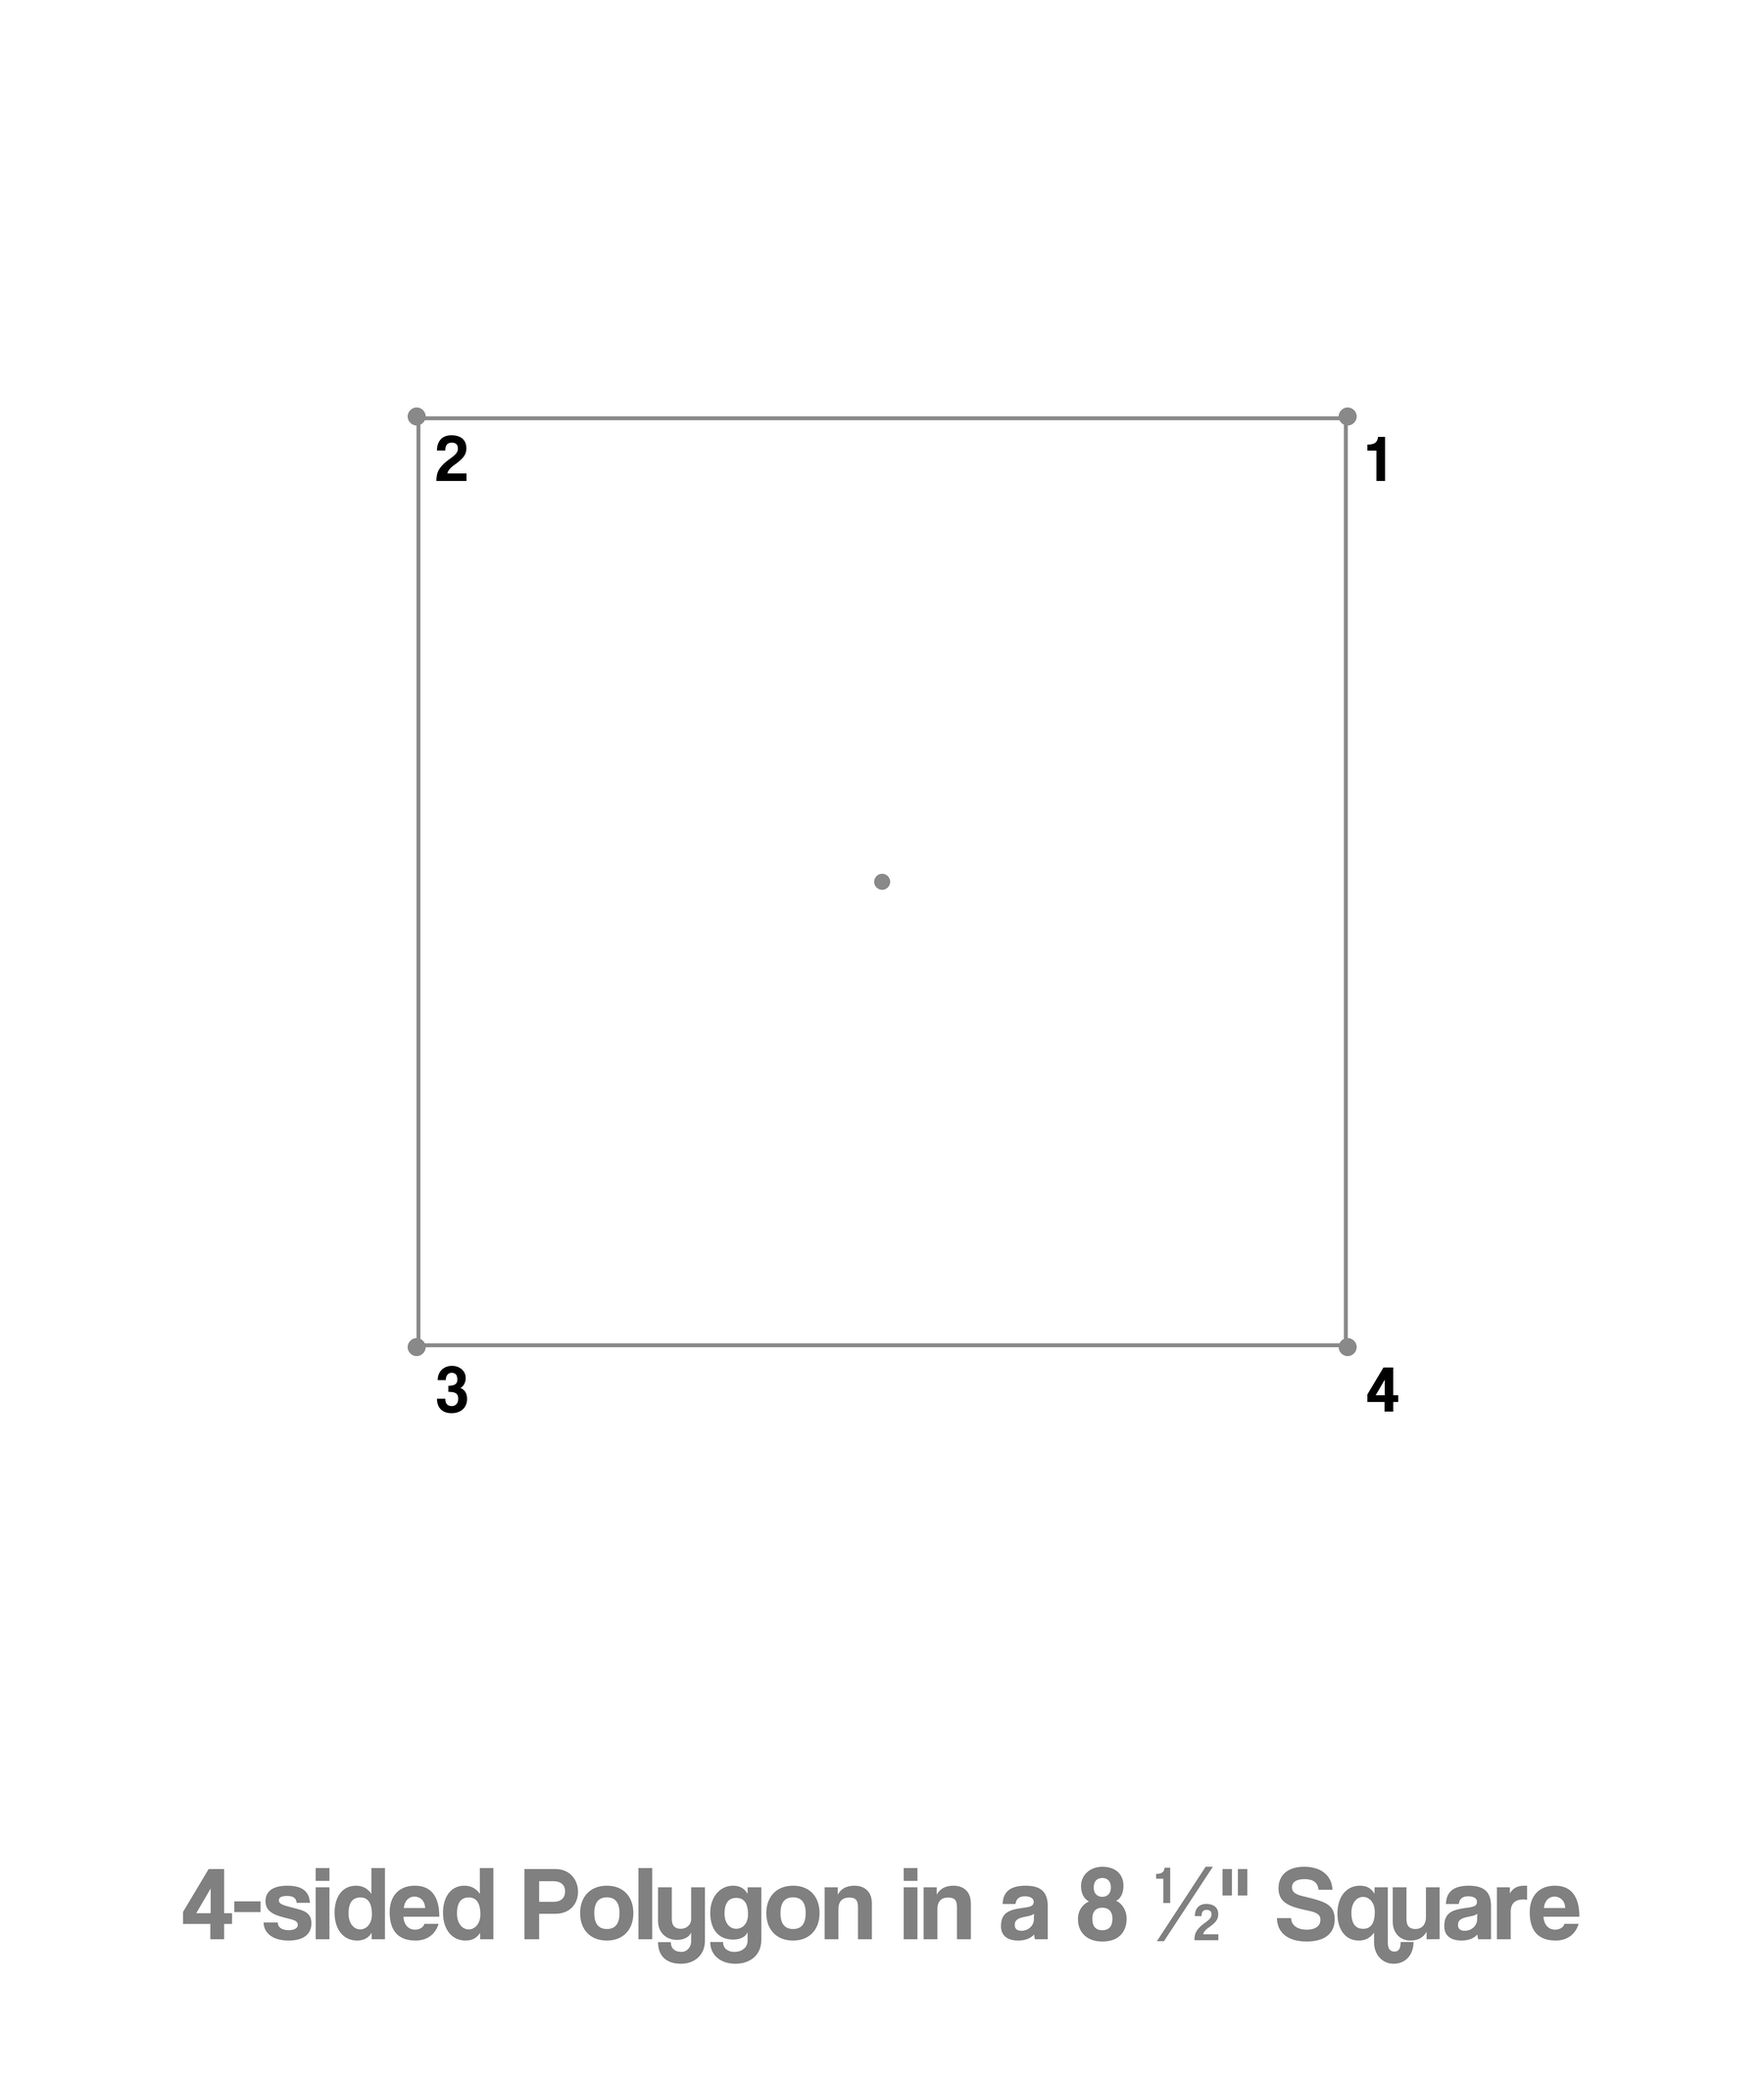
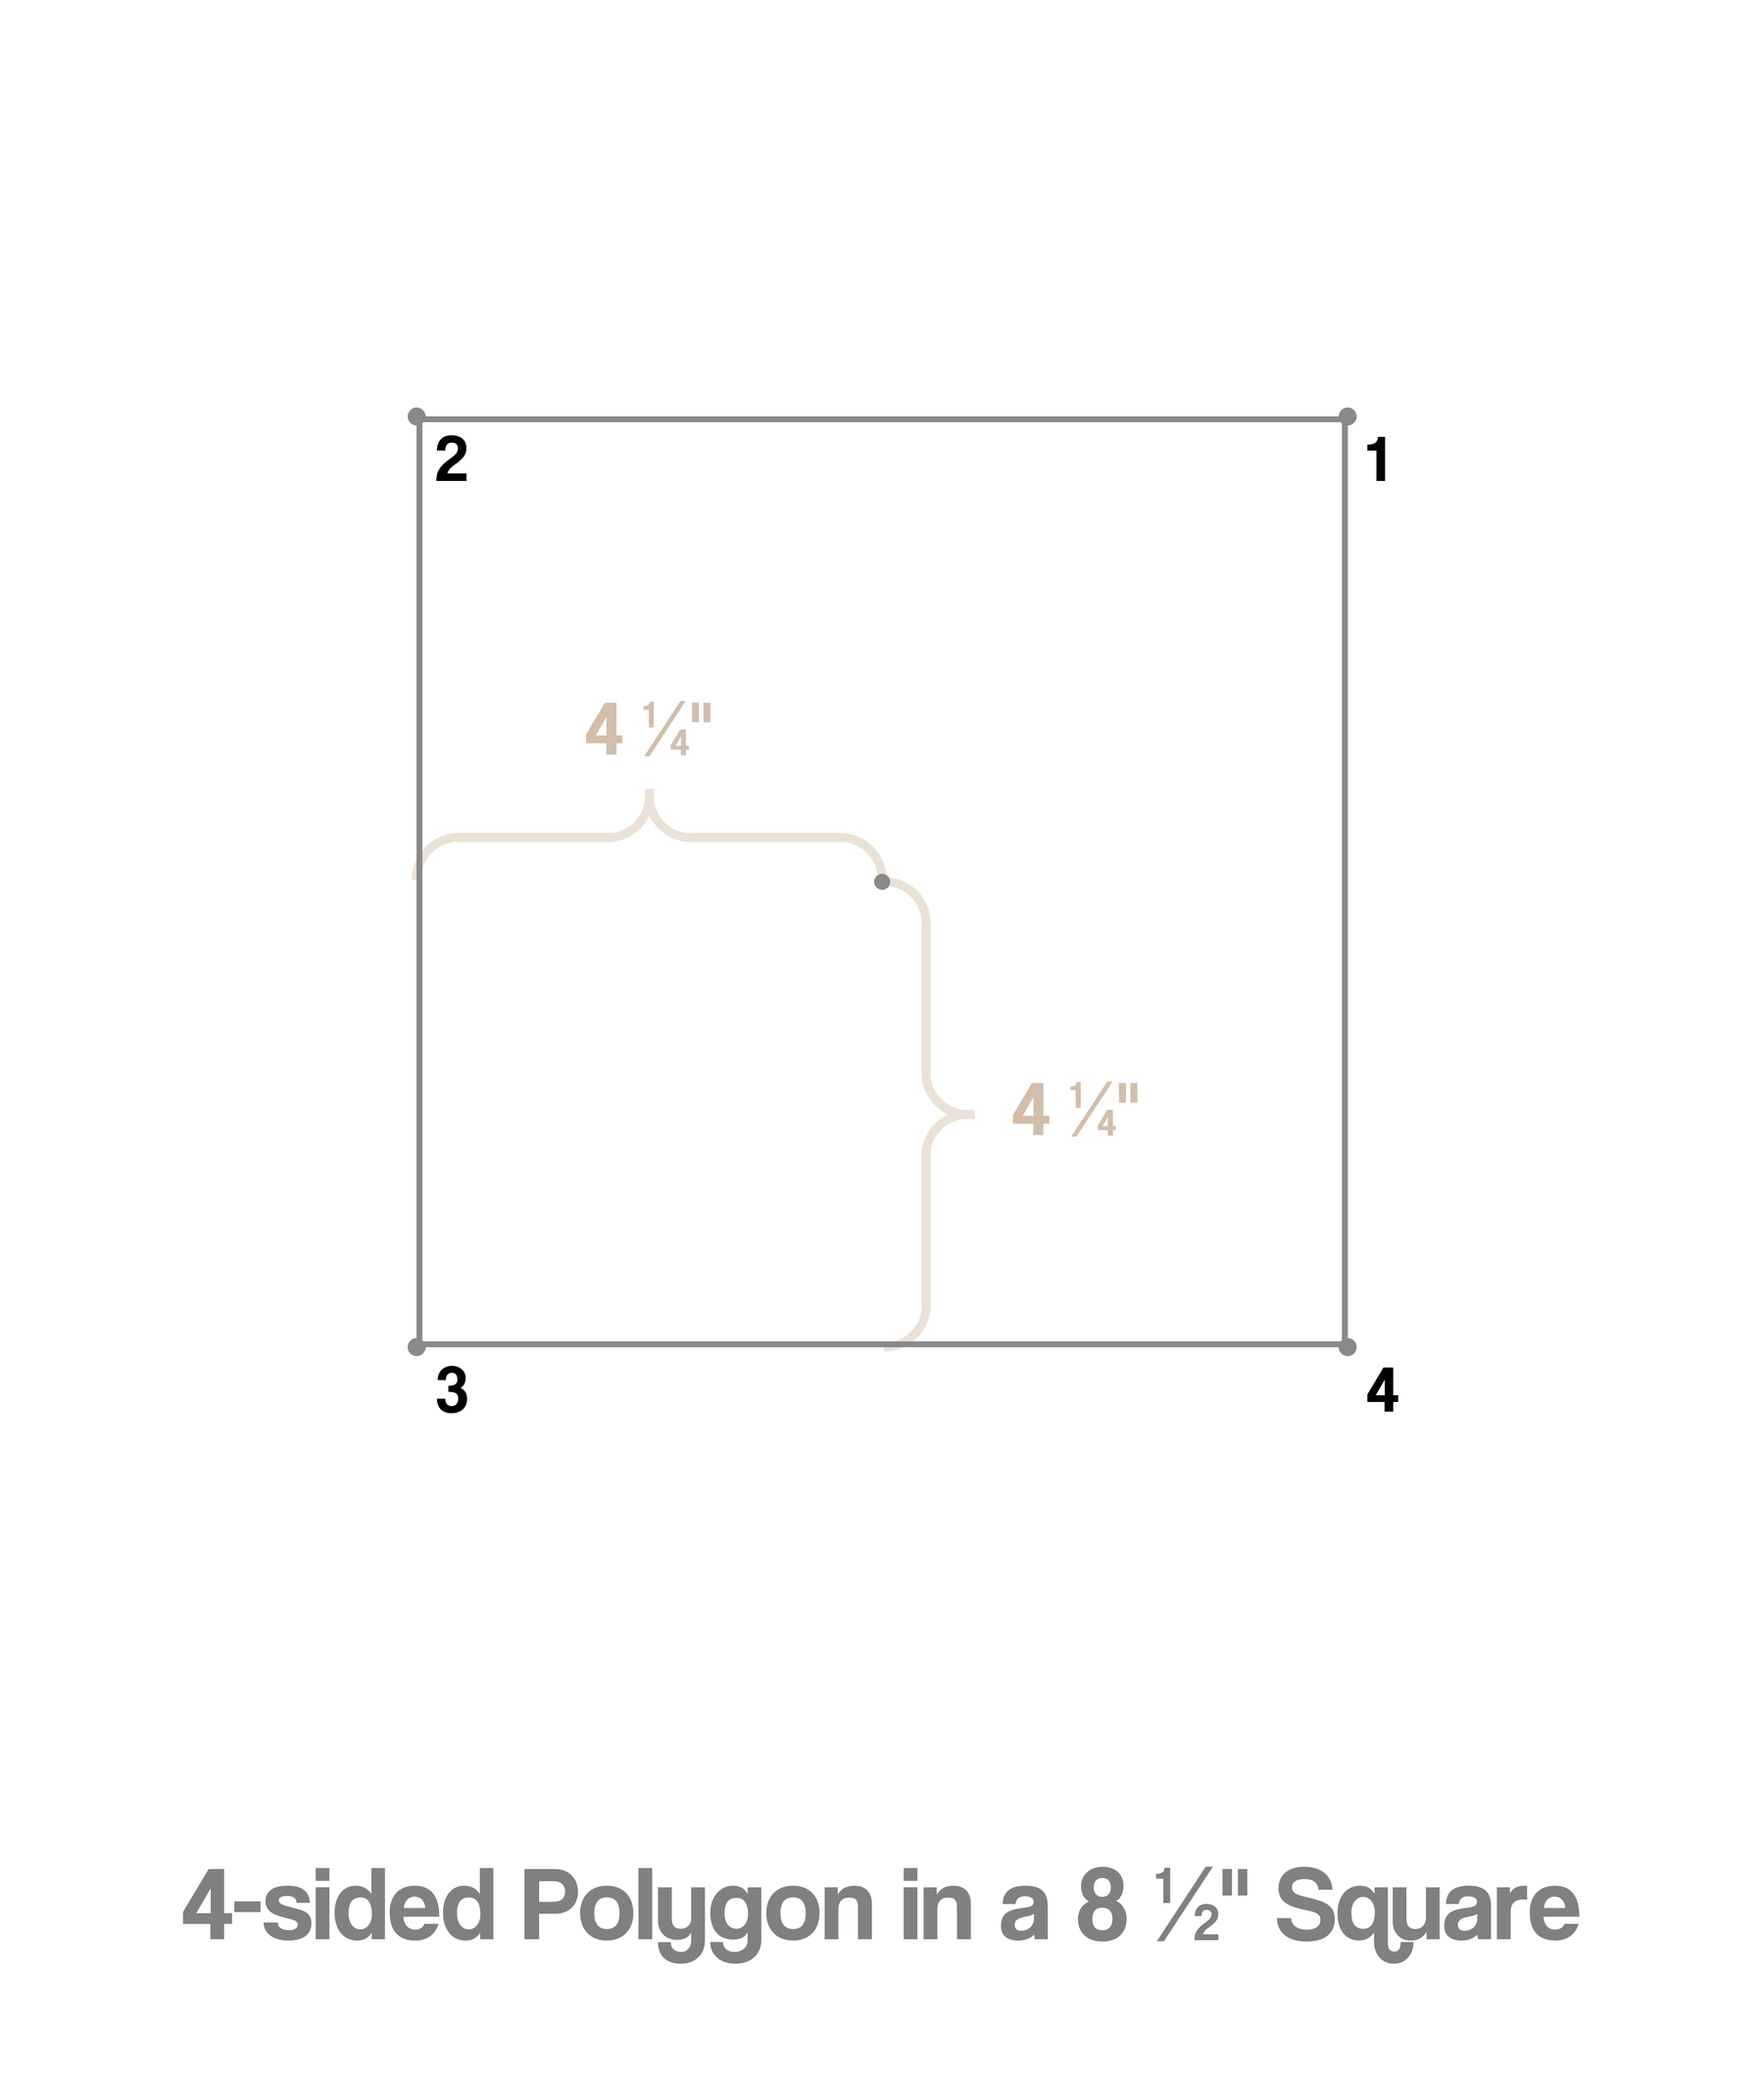
Add files via upload

diff --git a/maxpolygon/diagram/__init__.py b/maxpolygon/diagram/__init__.py
@@ -155,9 +155,57 @@ def draw_diagram(
             bracket_thickness_px=BRACKET_THICKNESS_PX,
         )
 
-    # 5) Collapse the labels layer down on top of the image.
-    img = Image.alpha_composite(img, labels_img)
-    img = img.convert("RGB")
+    # 5) Label the measurements to the center point.
+    if LABEL_MEASUREMENTS_TO_CENTER:
+        # 5a) Create a new image layer so the brackets for the center
+        #     are rendered under everything else.
+        under_layer = Image.new("RGBA", img.size, (0, 0, 0, 0))
+        under_draw = ImageDraw.Draw(under_layer)
+
+        # 5b) Label the horizontal length that shows where the center is.
+        start_x = to_px(0, paper_size=paper_size)
+        end_x = to_px(center[0], paper_size=paper_size)
+        const_y = to_px(center[1], paper_size=paper_size, invert=invert_y)
+        label_edge(
+            label_str=to_label_string(center[0]),
+            draw=under_draw,
+            label_draw=label_draw,
+            start_xy=(start_x, const_y),
+            end_xy=(end_x, const_y),
+            px_open=PX_OPEN,
+            stem_dir="up",
+            bracket_thickness_px=BRACKET_THICKNESS_PX,
+            fill=CENTER_BRACKET_COLOR,
+            label_fill=CENTER_BRACKET_LABEL_COLOR,
+        )
+
+        # 5c) Label the vertical length that shows where the center is.
+        start_y = to_px(0, paper_size=paper_size, invert=invert_y)
+        end_y = to_px(center[1], paper_size=paper_size, invert=invert_y)
+        min_y = min(start_y, end_y)
+        max_y = max(start_y, end_y)
+        const_x = to_px(center[0], paper_size=paper_size)
+        label_edge(
+            label_str=to_label_string(center[1]),
+            draw=under_draw,
+            label_draw=label_draw,
+            start_xy=(const_x, min_y),
+            end_xy=(const_x, max_y),
+            px_open=PX_OPEN,
+            stem_dir="right",
+            bracket_thickness_px=BRACKET_THICKNESS_PX,
+            fill=CENTER_BRACKET_COLOR,
+            label_fill=CENTER_BRACKET_LABEL_COLOR,
+        )
+
+    # 6) Collapse the labels layer down on top of the image.
+    result = Image.new("RGBA", img.size, (255, 255, 255, 255))
+    if LABEL_MEASUREMENTS_TO_CENTER:
+        result = Image.alpha_composite(result, under_layer)
+    result = Image.alpha_composite(result, img)
+    result = Image.alpha_composite(result, labels_img)
+    # img = Image.alpha_composite(img, labels_img)
+    img = result.convert("RGB")
 
     # 6) Size the image down and return it if the title is disabled.
     if TITLE_LOCATION is None:

diff --git a/maxpolygon/diagram/_basic_diagram.py b/maxpolygon/diagram/_basic_diagram.py
@@ -52,7 +52,7 @@ def create_basic_diagram(
     ]
 
     # 3) Create the image and drawing object.
-    img = Image.new("RGBA", (IMG_SIZE, IMG_SIZE), (255, 255, 255, 255))
+    img = Image.new("RGBA", (IMG_SIZE, IMG_SIZE), (0, 0, 0, 0))
     labels_img = Image.new("RGBA", (IMG_SIZE, IMG_SIZE), (0, 0, 0, 0))
     draw = ImageDraw.Draw(img)
     labels_draw = ImageDraw.Draw(labels_img)
@@ -66,12 +66,12 @@ def create_basic_diagram(
             IMG_SIZE - SQUARE_PADDING,
         ],
         outline=SQUARE_BORDER_COLOR,
-        width=4 * ANTIALIAS,
+        width=6 * ANTIALIAS,
     )
 
     # 5) Draw the polygon and vertices.
     # 5a) Draw the polygon lines.
-    draw.polygon(px_coords, outline=LINE_COLOR, width=4 * ANTIALIAS)
+    draw.polygon(px_coords, outline=LINE_COLOR, width=6 * ANTIALIAS)
     for i, (x, y) in enumerate(coords):
         p_x, p_y = px_coords[i]
 

diff --git a/maxpolygon/diagram/_label_edge.py b/maxpolygon/diagram/_label_edge.py
@@ -29,8 +29,12 @@ def label_edge(
     stem_dir: str,
     bracket_thickness_px,
     fill="gray",
+    label_fill=None,
 ):
     global _measure_font
+
+    if label_fill is None:
+        label_fill = fill
 
     def inc_angle(angle, add, exclude_360: bool):
         return (angle + add) % (360.0001 if exclude_360 else 360.0)
@@ -176,4 +180,4 @@ def label_edge(
         text_pos = (text_pos[0], text_pos[1] + text_h)
 
     # 9) Label the bracket with the measurement.
-    label_draw.text(text_pos, label_str, fill=fill, font=_measure_font)
+    label_draw.text(text_pos, label_str, fill=label_fill, font=_measure_font)

diff --git a/maxpolygon/_config.py b/maxpolygon/_config.py
@@ -50,5 +50,8 @@ SQUARE_BORDER_COLOR = (187, 187, 187)
 
 
 # Bracket settings.
+LABEL_MEASUREMENTS_TO_CENTER = True
+CENTER_BRACKET_LABEL_COLOR = (210, 190, 170)
+CENTER_BRACKET_COLOR = (235, 225, 215)
 PX_OPEN = 45 * ANTIALIAS
 BRACKET_LINE_WIDTH = 9 * ANTIALIAS
